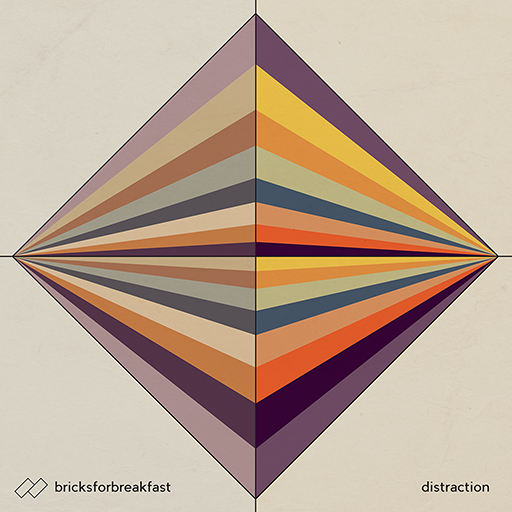
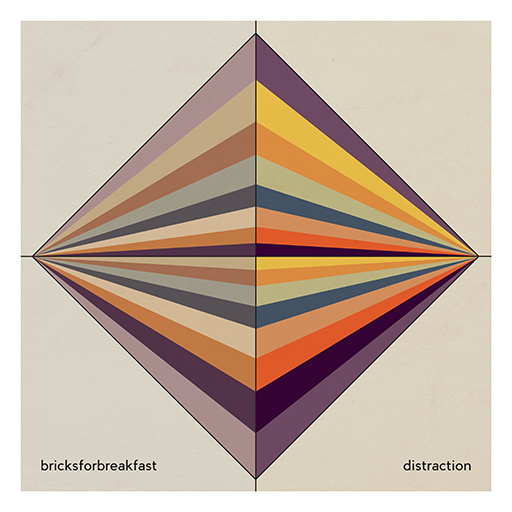
Added tracks on page

diff --git a/index.html b/index.html
@@ -21,18 +21,14 @@ layout: default
                 <div class="col-xs-12 col-sm-6 left">
                     <p class="intro">
                         Creating new music is what we do. In our believe, every jam-night can be the beginning of a new
-                        track. Within our first album <em>One</em>, we just picked our loved tracks at the moment, to
-                        share with you.
-                        Our first album <em>Distraction</em>, is not just a selection of tracks, but some red line
-                        between all tracks is going on.
+                        track. So that's what we do: creating the tracks we love.
                     </p>
                     <p></p>
                 </div>
                 <div class="col-xs-12 col-sm-6 right">
                     <p>
-                        Our current EP is <strong>One</strong>, where Distraction is our first official EP which will be
-                        finished in December. <strong>Glutenfree Phylosophy</strong> is our killer track, released as a
-                        single in October.</p>
+                        Our current album is <strong>Distraction</strong>, an embroiled love story where every track captures another phase in a relationship.
+                        <strong>Glutenfree Phylosophy</strong> is our killer track, released as a single.</p>
                     <p>
                         At the moment, we are also exploring more electronic, 80s and R&B influences, which will be
                         found on our future releases.
@@ -48,33 +44,41 @@ layout: default
         <article>
             <div class="row">
                 <div class="col-xs-12 col-sm-6 pull-left left">
-                    <div class="release-image">
-                        <img src="/images/covers/glutenfree_philosophy.png" title="Glutenfree Philosophy"
-                             alt="Glutenfree Philosophy"/>
+                    <div class="release-image border">
+                        <img src="/images/covers/distraction.png" title="Distraction" alt="Distraction"/>
                     </div>
                 </div>
                 <div class="col-xs-12 col-sm-6 pull-right right">
                     <div class="article-title">
-                        <span class="date">December 2017</span>
-                        <h3>Glutenfree Philosophy (single)</h3>
+                        <span class="date">January 2018</span>
+                        <h3>Distraction (Album)</h3>
                     </div>
                     <div class="article-body">
                         <p>
-                            It’s alive! We are proud to share with you the first single of our upcoming album Distraction, the killer track called <strong>Glutenfree Philosophy</strong>! The song is a critique on how we tend to focus so much on our online presence and acceptance, that we forget to stay in touch with our real selves and real-life social connections.
+                            Its huge, its tremendous! The first official <strong>album</strong>  of bricksforbreakfast. This EP is an embroiled
+                            love story with some critical notes. <strong>Glutenfree Phylosophy</strong> is the main
+                            track on this album, which was released as single.
                         </p>
                         <p>
-                            Glutenfree Philosophy was recorded during a small holiday in <em>Friesland</em>.
+                            On Distraction, we also captured the songs from the album <em>One</em>. These songs were remixed and remastered, and the drums were recorded all again.
                         </p>
+                        <p>
+                            The tracklist on Distraction is:
+                        </p>
+                        <ul class="tracklist">
+                            <li><span>#01</span><a href="https://open.spotify.com/track/3LLessEdOXh8IavweOoPTP">Glutenfree Philosophy</a></li>
+                            <li><span>#02</span><a href="https://open.spotify.com/track/61iap5m0XXxXRiq8818oLn">When You Dance With Me (Minos)</a></li>
+                            <li><span>#03</span><a href="https://open.spotify.com/track/5XBDWZQZ8cOTzfalhLv2Gu">Red Blooded Man</a></li>
+                            <li><span>#04</span><a href="https://open.spotify.com/track/0VfP6nvWiKl4zKHbvAhIiC">Edge of a Knife</a></li>
+                            <li><span>#05</span><a href="https://open.spotify.com/track/7FXnbArtRMkdXktedCV0kx">Break Up</a></li>
+                            <li><span>#06</span><a href="https://open.spotify.com/track/5YGEXApQeNkd6ebOPzx72q">Caught Red Handed</a></li>
+                            <li><span>#07</span><a href="https://open.spotify.com/track/6ysBDbM1yQ7OCcwbnHRUgM">P-Cock</a></li>
+                            <li><span>#08</span><a href="https://open.spotify.com/track/0senWuywhUbC0GQkofCuhx">It's Quite OK (For You)</a></li>
+                            <li><span>#09</span><a href="https://open.spotify.com/track/52duX1IxD2QHe8Nk5yodEJ">Siren's Song</a></li>
+                        </ul>
                     </div>
-
                     <div class="article-body">
-                        <a target="_blank" href="https://open.spotify.com/album/7EAPj7y6aax4bxhc54pv9C" class="btn pull-left">Listen on Spotify</a>
-                    </div>
-                    <div class="soundcloud-wrapper">
-                        <div class="soundcloud-item">
-                            <iframe width="100%" height="300" scrolling="no" frameborder="no"
-                                    src="https://w.soundcloud.com/player/?url=https%3A//api.soundcloud.com/playlists/373876592&amp;color=e19043&amp;auto_play=false&amp;hide_related=false&amp;show_comments=true&amp;show_user=true&amp;show_reposts=false&amp;show_teaser=true"></iframe>
-                        </div>
+                        <a target="_blank" href="https://open.spotify.com/album/3WcphFZRc2UmRk5PyIX50q" class="btn pull-left">Listen on Spotify</a>
                     </div>
                 </div>
             </div>
@@ -87,21 +91,26 @@ layout: default
         <article>
             <div class="row">
                 <div class="col-xs-12 col-sm-6 pull-left left">
-                    <div class="release-image">
-                        <img src="/images/covers/distraction.png" title="Distraction" alt="Distraction"/>
+                    <div class="release-image border">
+                        <img src="/images/covers/glutenfree_philosophy.png" title="Glutenfree Philosophy"
+                             alt="Glutenfree Philosophy"/>
                     </div>
                 </div>
                 <div class="col-xs-12 col-sm-6 pull-right right">
                     <div class="article-title">
-                        <span class="date">RELEASE: JANUARY 2018</span>
-                        <h3>Distraction</h3>
+                        <span class="date">January 2018</span>
+                        <h3>Glutenfree Philosophy (single)</h3>
                     </div>
                     <div class="article-body">
                         <p>
-                            The first <strong>official</strong> album of bricksforbreakfast. This EP is an embroiled
-                            love story with some critical notes. <strong>Glutenfree Phylosophy</strong> is the main
-                            track on this album.
+                            It’s alive! We are proud to share with you the first single of our upcoming album Distraction, the killer track called <strong>Glutenfree Philosophy</strong>! The song is a critique on how we tend to focus so much on our online presence and acceptance, that we forget to stay in touch with our real selves and real-life social connections.
                         </p>
+                        <p>
+                            Glutenfree Philosophy was recorded during a small holiday in <em>Friesland</em>.
+                        </p>
+                    </div>
+                    <div class="article-body">
+                        <a target="_blank" href="https://open.spotify.com/album/5Z12cCKaZGdEjMwQ83J7EE" class="btn pull-left">Listen on Spotify</a>
                     </div>
                 </div>
             </div>
@@ -121,11 +130,11 @@ layout: default
                 <div class="col-xs-12 col-sm-6 pull-right right">
                     <div class="article-title">
                         <span class="date">June 2015</span>
-                        <h3>One (unofficial)</h3>
+                        <h3>One (unofficial EP)</h3>
                     </div>
                     <div class="article-body">
                         <p>
-                            Our first album, the very beginning of B4B. The first collection of tracks we wanted to
+                            Our first album, the very beginning of Bricks for Breakfast. The first collection of tracks we wanted to
                             share with you. All tracks were recorded at an holiday home in <em>Germany</em>, with drums
                             in the kitchen, lots of gear, beers and cables everywhere.
                         </p>
@@ -151,9 +160,9 @@ layout: default
             <div class="row">
                 <div class="col-xs-12 col-sm-6 left">
                     <p class="intro">
-                        Bricksforbreakfast is a Dutch recording collective formed in 2015, but foremost a group of
-                        friends. Formerly playing in a coverband, where now this experience is put to use in producing
-                        our Originals from our home studios and living rooms.
+                        Bricks for Breakfast is a Dutch recording collective formed in 2015, but foremost a group of
+                        friends. We played together in a coverband, where now this experience is put to use in producing
+                        our originals from our home studios and living rooms.
                     </p>
 
                     <p>Style-wise, we prefer to mix it up a little. From electronic to 60s rock and everything in
@@ -162,13 +171,13 @@ layout: default
 
                 </div>
                 <div class="col-xs-12 col-sm-6 right">
-                    <p>The people behind Bricksforbreakfast are <em>Daan Wirtz (Guitar, Production)</em>, <em>Joost Maas
+                    <p>The people behind Bricks for Breakfast are <em>Daan Wirtz (Guitar, Production)</em>, <em>Joost Maas
                         (Guitar, Lyrics)</em>, <em>Leon Melissant (Guitar, Production, Vocals)</em>, <em>Olav Peuscher
                         (Keys, Production)</em>, <em>Sander Clahsen (Drums)</em>, <em>Thomas Husken (Bass)</em>, <em>Xander
-                        Peuscher (some keys)</em> and <em>Yolanda Koevoets(Vocals, Lyrics)</em></p>
+                        Peuscher (some keys)</em> and sometimes <em>Yolanda Koevoets(Vocals, Lyrics)</em></p>
 
-                    <p>All musicians in Bricksforbreakfast previously played in coverband <strong>Tune Inn</strong> with
-                        about 60 live performances over five years and great gigs to look back to.</p>
+                    <p>All musicians in Bricks for Breakfast previously played in coverband <strong>Tune Inn</strong> with
+                        about 60 live performances over five years and great gigs to look back at.</p>
                 </div>
             </div>
         </article>

diff --git a/css/app.sass b/css/app.sass
@@ -433,6 +433,7 @@ body
         display: inline-block
         float: none
         max-width: 100%
+        box-shadow: 0 0 6px rgba(80,80,80,0.2)
 
   // SOUNDCLOUD
   .soundcloud-wrapper
@@ -532,6 +533,39 @@ body
     float: left
     width: 100%
     margin-top: 60px
+
+  // Tracklist
+  ul
+    &.tracklist
+      display: inline-block
+      width: 100%
+      float: left
+      list-style-type: none
+      padding: 0
+      margin: 15px 0 0 0
+      font-family: "Roboto Slab",serif
+      font-size: 15px
+      font-weight: 400
+      li
+        display: inline-block
+        width: 100%
+        float: left
+        line-height: 20px
+        padding: 5px 0
+        a
+          color: $black-color
+          transition: color ease-out 150ms
+          &:hover
+            color: $orange-color
+            transition: color ease-out 150ms
+        span
+          margin-right: 10px
+          background-color: $black-color
+          color: white
+          line-height: 20px
+          padding: 0 5px
+          width: 40px
+          display: inline-block
 
   // FOOTER
   footer
@@ -870,9 +904,6 @@ body
         .left
           & > *:not(.release-image)
             padding-right: 15px
-          .release-image
-            img
-              margin-left: -7.5px
         .right
           & > *:not(.release-image)
             padding-left: 15px
